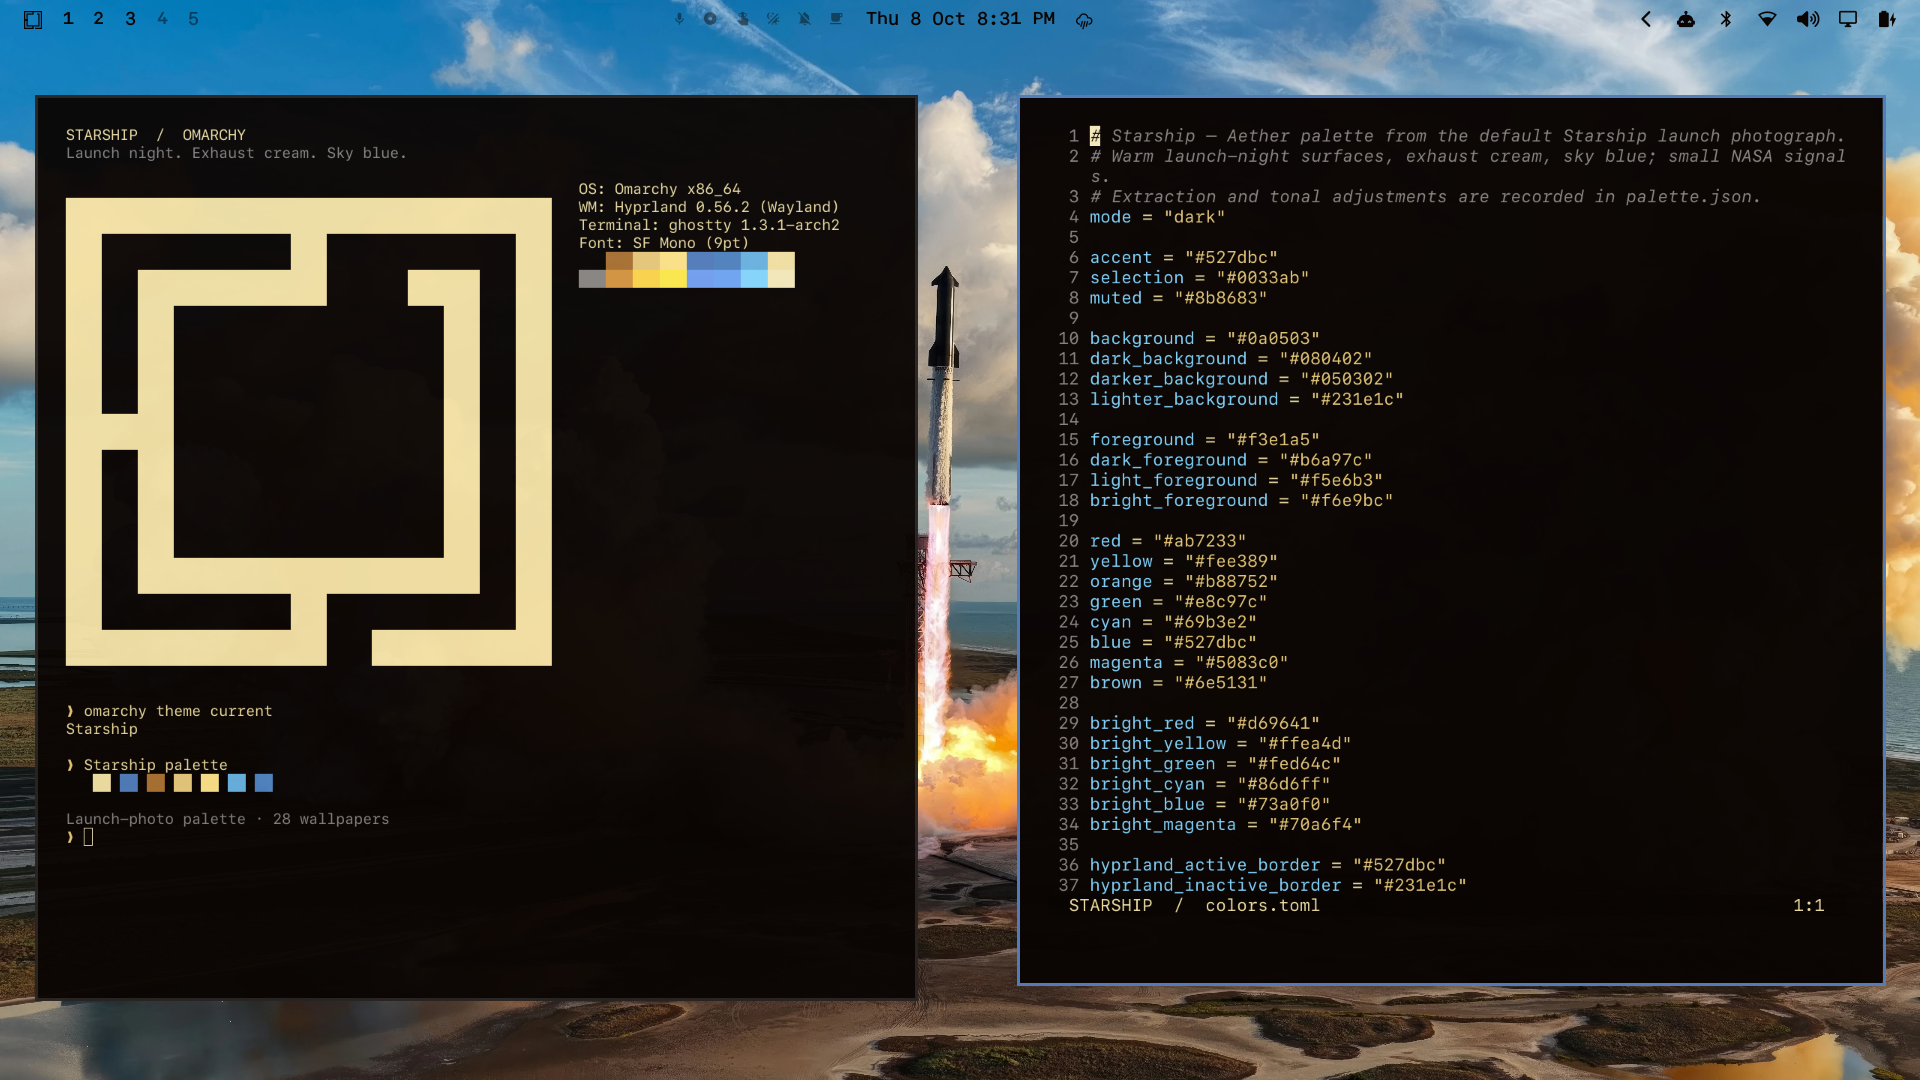
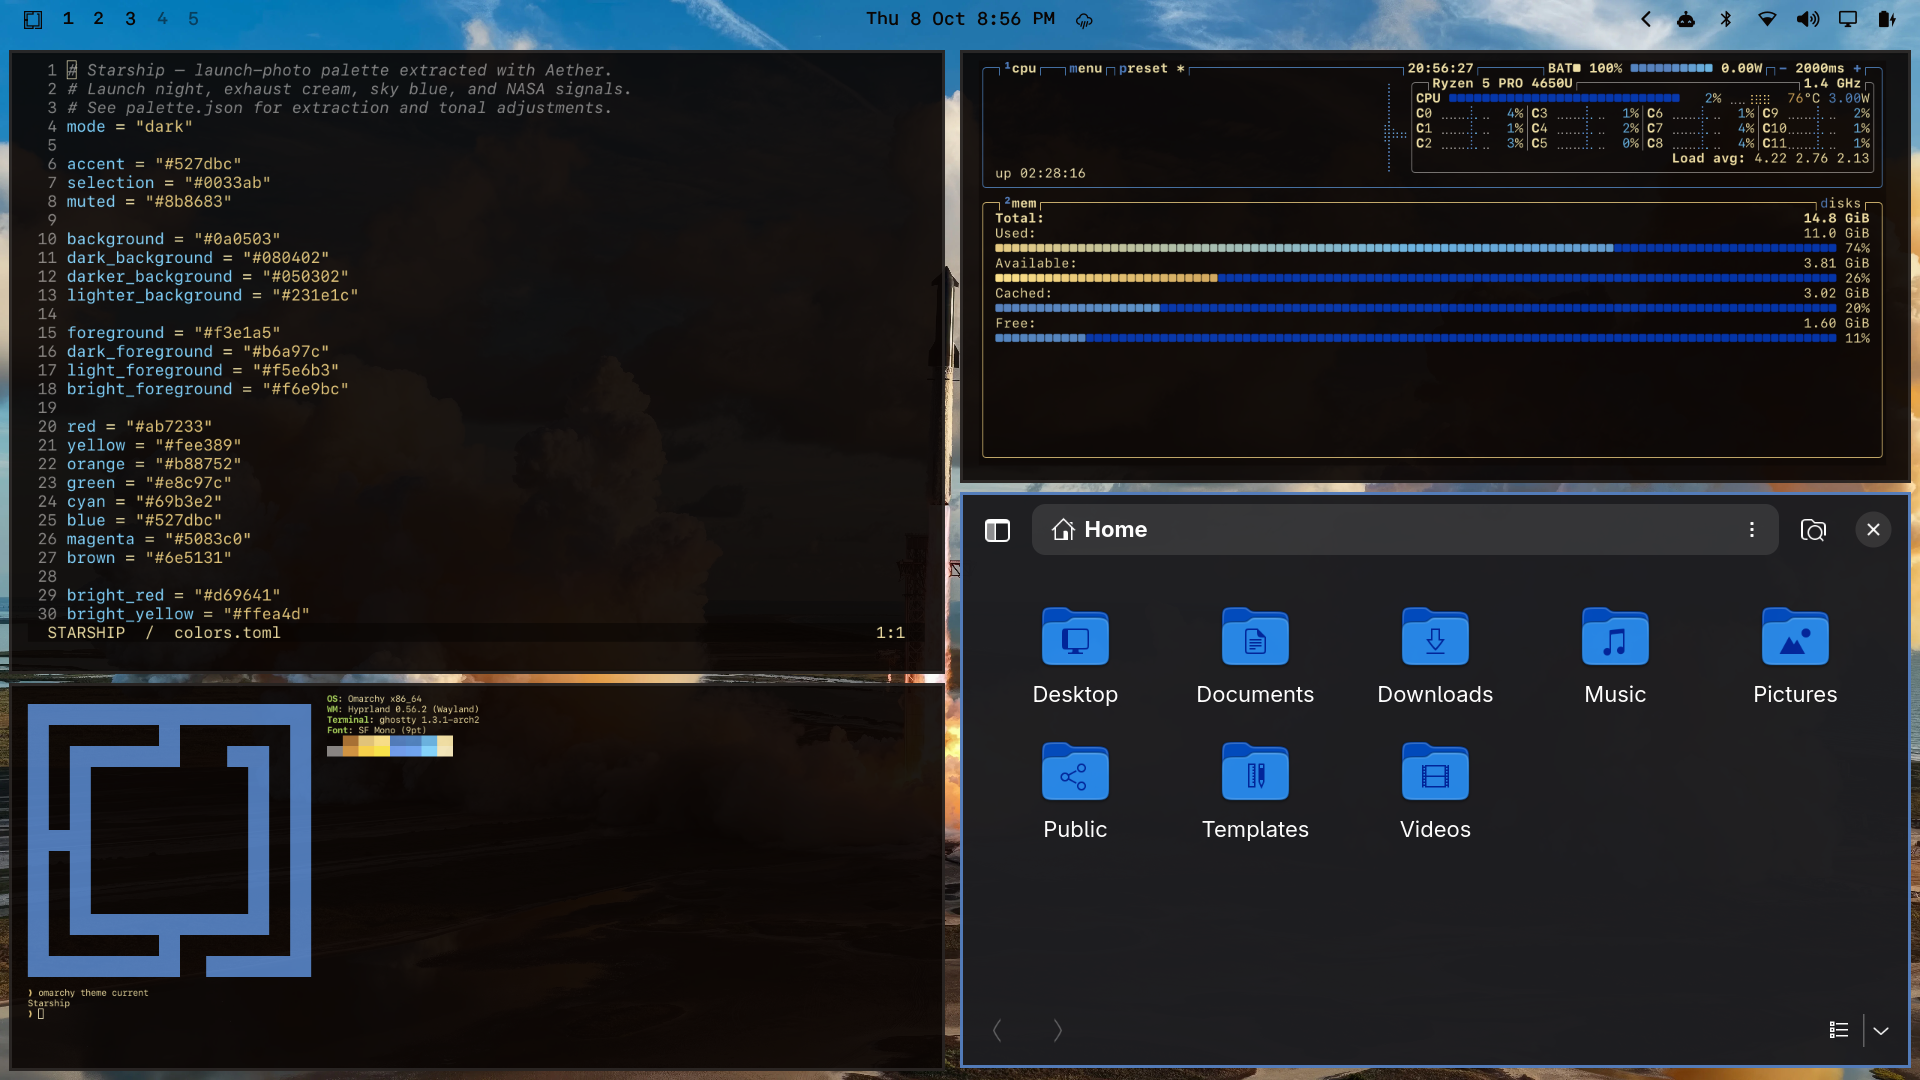
Refresh preview with themed Ghostty and GTK4 Files

diff --git a/README.md b/README.md
@@ -4,7 +4,7 @@
 
 Launch-night surfaces, exhaust cream, sky blue, and a little NASA. An Omarchy 4 theme with **28 wallpapers**: the 16 supplied SpaceX photographs and all 12 backgrounds from [Steve Derico’s Space theme](https://github.com/stevederico/omarchy-space-theme). Its **Starship launch** photograph is the default wallpaper and the source of the base palette.
 
-![Starship running on Omarchy with a terminal and Neovim](preview.png)
+![Starship running on Omarchy with Ghostty, Neovim, btop, and GTK4 Files](preview.png)
 
 ## Install
 
@@ -54,7 +54,7 @@ Uses Omarchy's semantic `colors.toml` format and its built-in app templates, lik
 
 Requires **Omarchy 4.0 or later**, including support for `shell.*.toml` section overrides. The repository contains the palette and colour-only overrides; terminal configs and Lua files are generated by Omarchy on installation.
 
-`preview.png` is a 1920 × 1080 screenshot of a real Omarchy session showing Ghostty, Omarchy's standard fastfetch logo, and Neovim with this theme.
+`preview.png` is a 1920 × 1080 screenshot of a real Omarchy session showing Neovim, Ghostty with Omarchy’s standard fastfetch logo, btop, and GTK4 Nautilus with only the standard home folders.
 
 ## Photography
 
